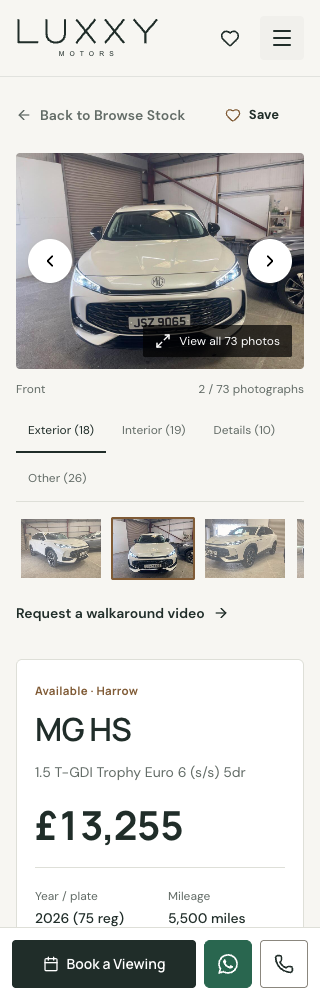
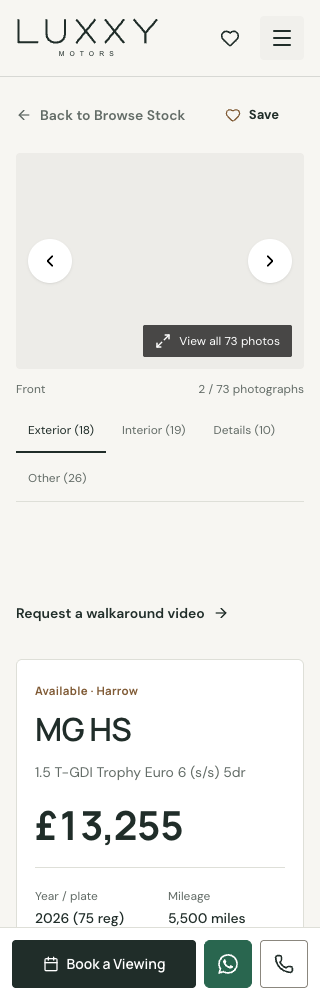
Add subtle crossfade and zoom to vehicle gallery

Changed region(s): [[0.0312, 0.155, 0.9688, 0.372], [0.3438, 0.496, 0.9688, 0.589], [0.0625, 0.496, 0.3125, 0.589]]

diff --git a/artifacts/luxxy-motors/src/components/gallery.tsx b/artifacts/luxxy-motors/src/components/gallery.tsx
@@ -1,3 +1,4 @@
+import { AnimatePresence, motion, useReducedMotion } from 'framer-motion';
 import { responsiveVehicleImage, retryOriginalImage } from "@/lib/responsive-vehicle-image";
 import { orderVehiclePhotos, photoGroup } from "@/lib/vehicle-photography";
 import { useState, useMemo, useRef } from 'react';
@@ -16,6 +17,7 @@ function imageCaption(image: CarImage | string | undefined) {
 }
 
 export function Gallery({ images, heroImage, vehicleLabel = 'Vehicle' }: GalleryProps) {
+  const reduceMotion = useReducedMotion();
   const thumbnailRefs = useRef<Array<HTMLButtonElement | null>>([]);
   const [activeIndex, setActiveIndex] = useState(0);
   const [failedImages, setFailedImages] = useState<Set<string>>(new Set());
@@ -68,7 +70,8 @@ export function Gallery({ images, heroImage, vehicleLabel = 'Vehicle' }: Gallery
     eager = false,
   ) => {
     const url = getSafeImageUrl(allImages[imageIndex]);
-    return failedImages.has(url) ? (
+    const ImageElement = eager ? motion.img : 'img';
+    const content = failedImages.has(url) ? (
       <div
         className={cn(
           'flex items-center justify-center gap-3 bg-muted text-muted-foreground',
@@ -79,7 +82,8 @@ export function Gallery({ images, heroImage, vehicleLabel = 'Vehicle' }: Gallery
         <span className="text-xs">Photograph unavailable</span>
       </div>
     ) : (
-      <img
+      <ImageElement
+        {...(eager ? { initial: { opacity: reduceMotion ? 1 : 0, scale: reduceMotion ? 1 : 1.025 }, animate: { opacity: 1, scale: 1 }, exit: { opacity: 0, scale: 1 }, transition: { duration: reduceMotion ? 0 : 0.32, ease: [0.22, 1, 0.36, 1] as [number, number, number, number] } } : {})}
         key={url}
         src={url}
         {...responsiveVehicleImage(url, eager ? "(max-width: 1023px) 100vw, 900px" : "120px")}
@@ -92,6 +96,7 @@ export function Gallery({ images, heroImage, vehicleLabel = 'Vehicle' }: Gallery
         onError={(event) => {if (!retryOriginalImage(event.currentTarget)) setFailedImages((prev) => new Set(prev).add(url));}}
       />
     );
+    return eager ? <AnimatePresence initial={false} mode="popLayout">{content}</AnimatePresence> : content;
   };
   const arrowClass =
     'grid h-11 w-11 shrink-0 place-items-center rounded-full border border-white/30 bg-white text-black shadow-sm hover:bg-secondary focus-visible:ring-2 focus-visible:ring-ring focus-visible:ring-offset-2';

diff --git a/docs/ui-redesign.md b/docs/ui-redesign.md
@@ -657,3 +657,6 @@ Validation: 172 frontend tests; seven browser checks covering 320px, 390px and 1
 The vehicle summary's Value my car action opens /enquire?type=part_exchange with the interested vehicle ID. Removed the duplicate in-page part-exchange mini-form. Embedded enquiry now asks only name, email, optional phone and message; hidden part-exchange draft data is not submitted, and email is the explicit reply method. Existing validation, API submission and error/success states remain. Rebalanced the page into gallery/summary, a full-width short enquiry section, then two-column desktop vehicle information. Viewing remains available as a quieter action; finance is absent.
 
 Validation: 172 frontend tests, workspace typechecks/build, four vehicle/gallery/enquiry browser scenarios and a direct valuation-route check. Tested submission intercepted in browser; no real enquiry sent. Fresh screenshots inspected.
+
+### Smooth vehicle photo changes
+Added a 320ms crossfade with a subtle 2.5% settling zoom to the main and fullscreen gallery images. Thumbnail controls remain immediate. Reduced-motion preference disables the transition. Workspace typechecking/build and three gallery browser checks at 320px, 390px and 1440px passed.
